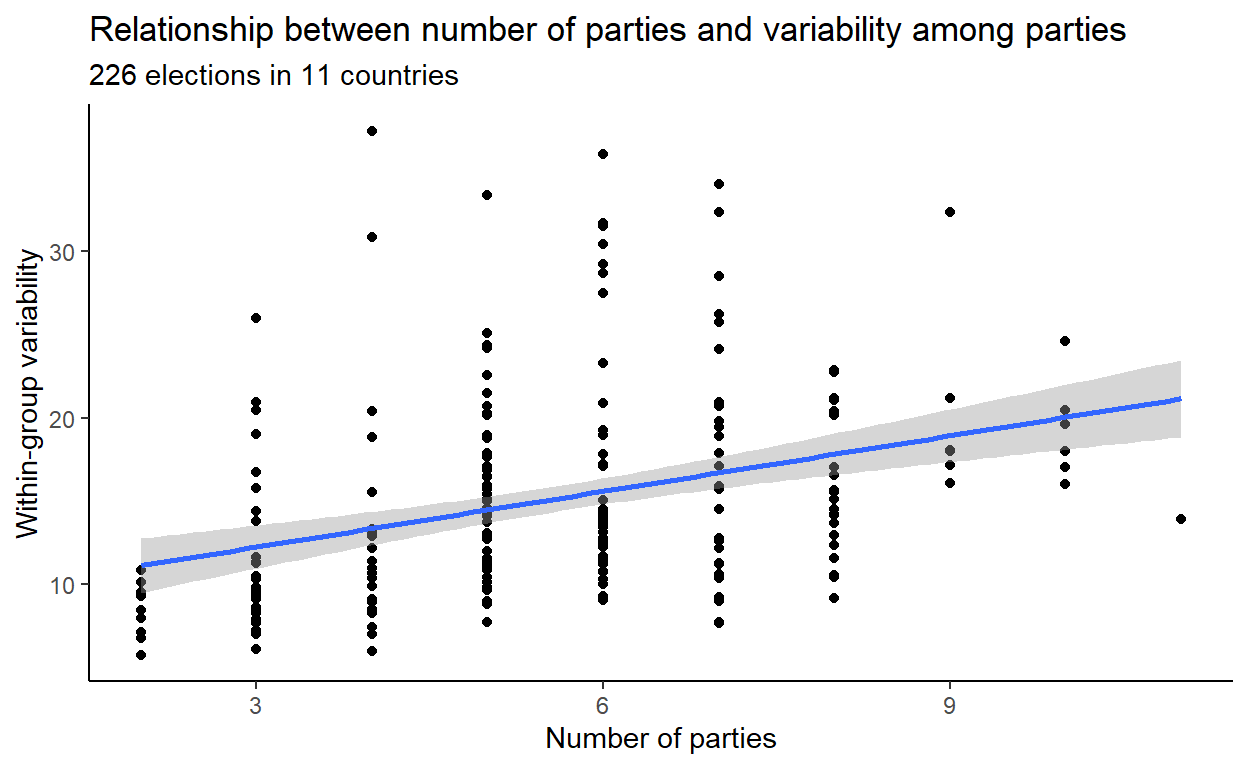
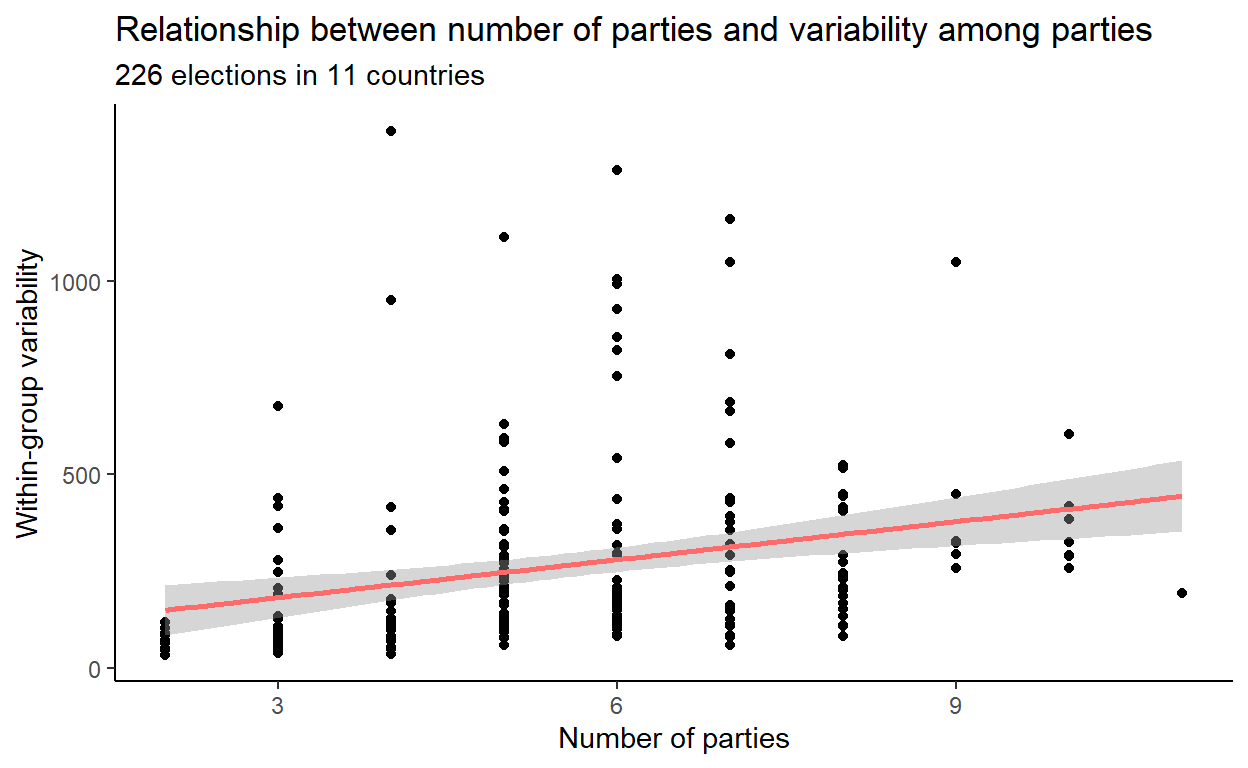
Milestone 4

diff --git a/index.html b/index.html
@@ -88,7 +88,7 @@ code span.wa { color: #5e5e5e; font-style: italic; } /* Warning */
 
 
   <!--radix_placeholder_meta_tags-->
-  <title>Measuring partisan heterogeneity</title>
+  <title>Measuring partisan divide</title>
 
   <meta property="description" itemprop="description" content="Beyond polarization: capturing political division in multi-party systems. Gov 50 Fall 2022 Final Project"/>
 
@@ -96,26 +96,26 @@ code span.wa { color: #5e5e5e; font-style: italic; } /* Warning */
   <meta name="article:author" content="Mitja Bof"/>
 
   <!--  https://developers.facebook.com/docs/sharing/webmasters#markup -->
-  <meta property="og:title" content="Measuring partisan heterogeneity"/>
+  <meta property="og:title" content="Measuring partisan divide"/>
   <meta property="og:type" content="article"/>
   <meta property="og:description" content="Beyond polarization: capturing political division in multi-party systems. Gov 50 Fall 2022 Final Project"/>
   <meta property="og:locale" content="en_US"/>
 
   <!--  https://dev.twitter.com/cards/types/summary -->
   <meta property="twitter:card" content="summary"/>
-  <meta property="twitter:title" content="Measuring partisan heterogeneity"/>
+  <meta property="twitter:title" content="Measuring partisan divide"/>
   <meta property="twitter:description" content="Beyond polarization: capturing political division in multi-party systems. Gov 50 Fall 2022 Final Project"/>
 
   <!--/radix_placeholder_meta_tags-->
   <!--radix_placeholder_rmarkdown_metadata-->
 
   <script type="text/json" id="radix-rmarkdown-metadata">
-  {"type":"list","attributes":{"names":{"type":"character","attributes":{},"value":["title","author","description","output"]}},"value":[{"type":"character","attributes":{},"value":["Measuring partisan heterogeneity"]},{"type":"list","attributes":{},"value":[{"type":"list","attributes":{"names":{"type":"character","attributes":{},"value":["name"]}},"value":[{"type":"character","attributes":{},"value":["Mitja Bof"]}]}]},{"type":"character","attributes":{},"value":["Beyond polarization: capturing political division in multi-party systems. Gov 50 Fall 2022 Final Project"]},{"type":"list","attributes":{"names":{"type":"character","attributes":{},"value":["distill::distill_article"]}},"value":[{"type":"list","attributes":{"names":{"type":"character","attributes":{},"value":["self_contained"]}},"value":[{"type":"logical","attributes":{},"value":[false]}]}]}]}
+  {"type":"list","attributes":{"names":{"type":"character","attributes":{},"value":["title","author","description","output"]}},"value":[{"type":"character","attributes":{},"value":["Measuring partisan divide"]},{"type":"list","attributes":{},"value":[{"type":"list","attributes":{"names":{"type":"character","attributes":{},"value":["name"]}},"value":[{"type":"character","attributes":{},"value":["Mitja Bof"]}]}]},{"type":"character","attributes":{},"value":["Beyond polarization: capturing political division in multi-party systems. Gov 50 Fall 2022 Final Project"]},{"type":"list","attributes":{"names":{"type":"character","attributes":{},"value":["distill::distill_article"]}},"value":[{"type":"list","attributes":{"names":{"type":"character","attributes":{},"value":["self_contained"]}},"value":[{"type":"logical","attributes":{},"value":[false]}]}]}]}
   </script>
   <!--/radix_placeholder_rmarkdown_metadata-->
   
   <script type="text/json" id="radix-resource-manifest">
-  {"type":"character","attributes":{},"value":["data/elect_systems_national_leg_europe.csv","data/elections_export.csv","data/MPDataset_MPDS2022a.csv","index_files/anchor-4.2.2/anchor.min.js","index_files/bowser-1.9.3/bowser.min.js","index_files/distill-2.2.21/template.v2.js","index_files/figure-html5/unnamed-chunk-1-1.png","index_files/header-attrs-2.14/header-attrs.js","index_files/header-attrs-2.17/header-attrs.js","index_files/jquery-3.6.0/jquery-3.6.0.js","index_files/jquery-3.6.0/jquery-3.6.0.min.js","index_files/jquery-3.6.0/jquery-3.6.0.min.map","index_files/popper-2.6.0/popper.min.js","index_files/tippy-6.2.7/tippy-bundle.umd.min.js","index_files/tippy-6.2.7/tippy-light-border.css","index_files/tippy-6.2.7/tippy.css","index_files/tippy-6.2.7/tippy.umd.min.js","index_files/webcomponents-2.0.0/webcomponents.js"]}
+  {"type":"character","attributes":{},"value":["data/elect_systems_national_leg_europe.csv","data/elections_export.csv","data/elections_sys_export.csv","data/MPDataset_MPDS2022a.csv","img/syst_diff_grid.png","index_files/anchor-4.2.2/anchor.min.js","index_files/bowser-1.9.3/bowser.min.js","index_files/distill-2.2.21/template.v2.js","index_files/figure-html5/unnamed-chunk-1-1.png","index_files/header-attrs-2.14/header-attrs.js","index_files/header-attrs-2.17/header-attrs.js","index_files/jquery-3.6.0/jquery-3.6.0.js","index_files/jquery-3.6.0/jquery-3.6.0.min.js","index_files/jquery-3.6.0/jquery-3.6.0.min.map","index_files/popper-2.6.0/popper.min.js","index_files/tippy-6.2.7/tippy-bundle.umd.min.js","index_files/tippy-6.2.7/tippy-light-border.css","index_files/tippy-6.2.7/tippy.css","index_files/tippy-6.2.7/tippy.umd.min.js","index_files/webcomponents-2.0.0/webcomponents.js"]}
   </script>
   <!--radix_placeholder_navigation_in_header-->
   <!--/radix_placeholder_navigation_in_header-->
@@ -1493,7 +1493,7 @@ code span.wa { color: #5e5e5e; font-style: italic; } /* Warning */
 <!--radix_placeholder_front_matter-->
 
 <script id="distill-front-matter" type="text/json">
-{"title":"Measuring partisan heterogeneity","description":"Beyond polarization: capturing political division in multi-party systems. Gov 50 Fall 2022 Final Project","authors":[{"author":"Mitja Bof","authorURL":"#","affiliation":"&nbsp;","affiliationURL":"#","orcidID":""}]}
+{"title":"Measuring partisan divide","description":"Beyond polarization: capturing political division in multi-party systems. Gov 50 Fall 2022 Final Project","authors":[{"author":"Mitja Bof","authorURL":"#","affiliation":"&nbsp;","affiliationURL":"#","orcidID":""}]}
 </script>
 
 <!--/radix_placeholder_front_matter-->
@@ -1503,7 +1503,7 @@ code span.wa { color: #5e5e5e; font-style: italic; } /* Warning */
 <!--/radix_placeholder_site_before_body-->
 
 <div class="d-title">
-<h1>Measuring partisan heterogeneity</h1>
+<h1>Measuring partisan divide</h1>
 <!--radix_placeholder_categories-->
 <!--/radix_placeholder_categories-->
 <p>Beyond polarization: capturing political division in multi-party systems. Gov 50 Fall 2022 Final Project</p>
@@ -1518,21 +1518,55 @@ code span.wa { color: #5e5e5e; font-style: italic; } /* Warning */
 
 <div class="d-article">
 <h2 id="project-description">Project description</h2>
-<p>Polarization is a central issue in contemporary political science, but its definition is tied to the bipartisan nature of the US party system. In this study, I aim to capture a broader phenomenon that affects multi-party political systems: partisan division. While polarization in a two-party system assumes a dichotomic opposition of political stances, multi-partisan division allows for heterogenous inter-party accordance across different dimensions of political conflict. In other words, party A might agree with party B on a specific issue, but may strongly disagree with it on a different one. This allows for the existence of complex framing strategies that go beyond the left/right (liberal/conservative) dichotomy.
-The main goal of this study is to determine whether some electoral systems are more likely to be associated with higher partisan division.</p>
+<p>Polarization is a central issue in contemporary political science, but its definition is tied to the bipartisan nature of the US party system. In this study, I aim to capture a broader phenomenon that affects multi-party political systems: partisan divide. While polarization in a two-party system assumes a dichotomic opposition of political stances, multi-partisan division allows for heterogenous inter-party accordance across different dimensions of political conflict. In other words, party A might agree with party B on a specific issue, but may strongly disagree with it on a different one. This allows for the existence of complex framing strategies that go beyond the left/right (liberal/conservative) dichotomy.
+The main goal of this study is to determine whether some electoral systems are more likely to be associated with higher partisan divide.</p>
 <h2 id="data-sources">Data sources</h2>
 <p>For this project, I will be using the <a href="https://manifesto-project.wzb.eu/">Manifesto Project Dataset</a> to quantify partisan heterogeneity. Data about electoral systems will be scraped from the Institute for Democracy and Electoral Assistance’s (IDEA) <a href="https://www.idea.int/data-tools/data/electoral-system-design">Electoral System Design Database</a></p>
 <p>The Manifesto Project provides data on ideological connotations of political manifestos through the following process: first, it breaks up each manifesto into independent semantic units. Secondly, it labels each unit based on its ideological content. For example, sentences emphasizing the need for tighter border patrol might fall under the label “negative views on immigration”. The main dataset lists the relative frequency of each ideological category in a given political manifesto, expressed in percentage points.</p>
 <h2 id="analytical-setup">Analytical setup</h2>
 <p>My analysis focuses on 11 countries (Sweden, Norway, Denmark, Finland, Netherlands, France, Italy, Spain, Germany, United Kingdom, Ireland), covering elections from 1944 to 2021. The ultimate units of my analysis are parties in a given electoral cycle. I conceive each party as a point in an N-dimensional space, where N is the number of categories present in the Manifesto Project (MP) dataset. Party coordinates are determined by the relative frequency of the ideological categories, as specified above. I am interested in quantifying variability in ideological positioning within each electoral cycle and country (henceforth, Within Group Variability, WGV). To do so, I employ the following metric:</p>
-<p><span class="math display">\[WGV_e = \sqrt{\frac{1}{P}\sum_{p = 0}^{P}\sum_{c = 0}^{C}(X_{pc} - \bar{X_c})^2}\]</span>
-Where <span class="math inline">\(WGV_e\)</span> is the within-group variability for election <span class="math inline">\(e\)</span>, <span class="math inline">\(P\)</span> is the number of parties running in the election, and <span class="math inline">\(C\)</span> is the number of dimensions.</p>
+<p><span class="math display">\[MSW_e = \frac{1}{P}\sum_{p = 0}^{P}\sum_{c = 0}^{C}(X_{pc} - \bar{X_c})^2\]</span>
+Where <span class="math inline">\(MSW_e\)</span> (Mean of Squares Within) is the within-group variability for election <span class="math inline">\(e\)</span>, <span class="math inline">\(P\)</span> is the number of parties running in the election, and <span class="math inline">\(C\)</span> is the number of dimensions.</p>
 <h2 id="exploratory-analysis">Exploratory analysis</h2>
 <p>As a preliminary analysis, I explore some of the features of the data.<br />
-There seems to be a positive correlation between the number of parties and the average distance between each party and the “partisan average”. Each point represents an election cycle.</p>
+</p>
+<h3 id="the-effect-of-the-number-of-parties">The effect of the number of parties</h3>
+<p>There seems to be a positive correlation between the number of parties and the average distance between each party and the “partisan average”. Each point represents an election cycle.</p>
 <div class="layout-chunk" data-layout="l-body-outset">
 <p><img src="index_files/figure-html5/unnamed-chunk-1-1.png" width="624" /></p>
 </div>
+<h3 id="the-effect-of-electoral-systems">The effect of electoral systems</h3>
+<p>Merging the “Manifesto” data with information about electoral systems by the Institute for Democracy and Electoral Assistance, I obtained a dataset comprising 89 unique election cycles, each linked to a specific electoral system. The three kinds of systems represented in the dataset are Proportional Representation, Plurality, and Mixed systems. “Mixed” includes systems that elect representatives through both a plurality and a PR channel, and “Plurality” includes two-round systems, regardless of the system used in the first round (there is no major difference between the two in terms of the metric of interest.)</p>
+<p>Proportional Representation Systems are associated with higher average levels of partisan divide.</p>
+<div class="layout-chunk" data-layout="l-body">
+<table>
+<thead>
+<tr class="header">
+<th style="text-align: left;">System Family</th>
+<th style="text-align: right;">Average WGV</th>
+</tr>
+</thead>
+<tbody>
+<tr class="odd">
+<td style="text-align: left;">Mixed</td>
+<td style="text-align: right;">150.4</td>
+</tr>
+<tr class="even">
+<td style="text-align: left;">Plurality</td>
+<td style="text-align: right;">128.9</td>
+</tr>
+<tr class="odd">
+<td style="text-align: left;">Proportional Representation</td>
+<td style="text-align: right;">248.5</td>
+</tr>
+</tbody>
+</table>
+</div>
+<p>Are these differences statistically significant? To answer this question, I perform a simulation-based permutation test. While the difference in means between Plurality and Mixed systems is not statistically significant (p = .49), the one between Plurality and PR is (simulation-based p = 0)</p>
+<p><img src="img/syst_diff_grid.png" /></p>
+<h2 id="interpretation-and-conclusion-draft">Interpretation and conclusion [DRAFT]</h2>
+<p>The main takeaways of the present analysis relate to the effect of the number of parties electoral system on partisan divide.
+Proportional representation systems favor smaller parties by allowing minoritarian subjects to have a seat in Parliament. In contrast, plurality systems encourage parties to seek a relative (or absolute, in two-party systems) majority. Consistently with the Median Voter Theorem, the necessity to cater to a larger number of voters will result in parties gravitating towards the political center, therefore mechanically leading to smaller levels of partisan divide.</p>
 <div class="sourceCode" id="cb1"><pre class="sourceCode r distill-force-highlighting-css"><code class="sourceCode r"></code></pre></div>
 <!--radix_placeholder_article_footer-->
 <!--/radix_placeholder_article_footer-->
